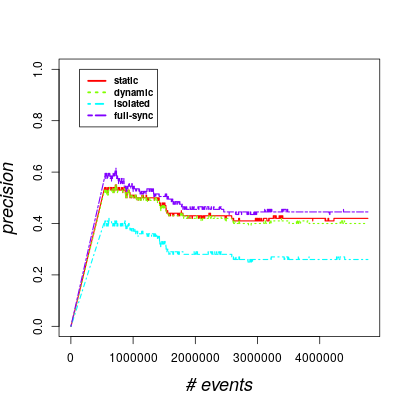
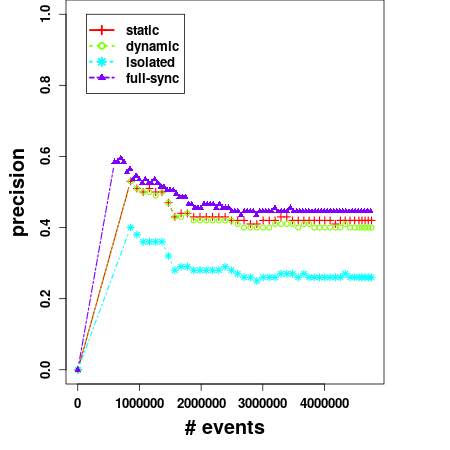
update the result figures

Changed region(s): [[0.0, 0.0, 0.9366, 0.9659], [0.0878, 0.0, 0.1463, 0.0585], [0.1463, 0.0, 0.1756, 0.0293]]

diff --git a/evaluation.tex b/evaluation.tex
@@ -1,18 +1,18 @@
 \section{EMPIRICAL EVALUATION}
 \label{sec:results}
-In this section, we evaluate the performance of our system using a real-world event streams provided by the datAcron project in the context of maritime monitoring. The used event streams describe critical points (i.e., synopses) of moving vessels trajectories, which are derived from raw AIS messages as was  described in \cite{synopses1}. In particular, for our evaluation experiments we used a data set of synopses contains $4,684,444$ critical points of $5055$ vessels sailing in the Atlantic Ocean during the period from 1 October 2015 to 31 March 2016. We used it to generate a simulated stream of event tuples  \textit{(id,timestamp, longitude, latitude, annotation, speed, heading)}, which are processed by the system to attach another field \textit{type} that represents the event value,  where $type$ $\in \Sigma$,  and $ \Sigma= \Sigma_1=$$\{$\textit{VerySlow ,Slow, Moving, Sailing, Stopping} $\}$ , which is based on ranging the speed values. Or $\Sigma=\Sigma_2=$ $\{$  \textit{stopStart,stopEnd, changeInSpeedStart, changeInSpeedEnd, slowMotionStart, slowMotionEnd, gapStart, gapEnd,   changeInHeading} $\}$, which is derived based on the values of the $annotation$ attribute that encodes the extracted trajectory movement events \cite{synopses1}. In our experiments, we monitor a pattern $\mathcal{P}_1=Sailing$ with $m=2$ over $\Sigma_1$ that detects when the vessel under way (sailing). In addition, we test a second pattern  $\mathcal{P}_2=$\textit{changeInHeading; gapStart; gapEnd; changeInHeading} with $m=1$ over $\Sigma_2$.
+In this section, we evaluate our proposed system by analyzing the predictive performance and communication complexity  using a real-world event streams provided by the datAcron project in the context of maritime monitoring. The used event streams describe critical points (i.e., synopses) of moving vessels trajectories, which are derived from raw AIS messages as described in \cite{synopses1}. In particular, for our evaluation experiments we used a data set of synopses contains $4,684,444$ critical points of $5055$ vessels sailing in the Atlantic Ocean during the period from 1 October 2015 to 31 March 2016. We used it to generate a simulated stream of event tuples  i.e., \textit{(id,timestamp, longitude, latitude, annotation, speed, heading)}, which are processed by the system to attach an extra attribute \textit{type} that represents the event value,  where $type$ $\in \Sigma$,  and $ \Sigma= \Sigma_1=$$\{$\textit{VerySlow ,Slow, Moving, Sailing, Stopping} $\}$ , which is based on ranging the speed values. Or $\Sigma=\Sigma_2=$ $\{$  \textit{stopStart,stopEnd, changeInSpeedStart, changeInSpeedEnd, slowMotionStart, slowMotionEnd, gapStart, gapEnd,   changeInHeading} $\}$, which is derived based on the values of the $annotation$ attribute that encodes the extracted trajectory movement events \cite{synopses1}. In our experiments, we monitor a pattern $\mathcal{P}_1=Sailing$ with $\Sigma_1$ that detects when the vessel under way (sailing). Likewise, we test a second pattern  $\mathcal{P}_2=$\textit{changeInHeading; gapStart; gapEnd; changeInHeading} with $\Sigma_2$.
 
 
 \subsubsection*{Experimental setup} We ran our experiments on single-node standalone Flink cluster deployed on a server (Ubuntu 17.04) with Intel(R) Core(TM) i7-7700 CPU @ 3.60GHz X 8 processors and 32GB RAM. We used Apache Flink v1.3.2 and Apache Kafka v0.10.2.1 for our tests.
 
 
-\subsubsection*{Evaluation criteria} Our goal is to evaluate our distributed pattern prediction system, which enables the synchronization of prediction models(i.e., PMC models) on the distributed predictor nodes. Our proposed system can operate with three different flavors of synchronization schemes: \begin{enumerate*}[label=(\roman*)] 
-	\item static based on synchronizing the prediction models periodically every $b$ of input events, 
+\subsubsection*{Evaluation criteria} Our goal is to evaluate our distributed pattern prediction system, which enables the synchronization of prediction models(i.e., PMC models) on the distributed predictor nodes. Our proposed system can operate in three different modes of synchronization protocols/schemes: \begin{enumerate*}[label=(\roman*)] 
+	\item static scheme based on synchronizing the prediction models periodically every $b$ of input events, 
 \item continuous synchronization for each incoming event (hypothetical), 
-\item dynamic synchronization based on making the predictors communicate their prediction models periodically only when the divergence of the models form a reference model exceeds a variance threshold $\Delta$ (recommended).
+\item dynamic synchronization protocol based on making the predictors communicate their local prediction models periodically only when the divergence of the local models form a reference model exceeds a variance threshold $\Delta$ (recommended).
  	   
 \end{enumerate*}
-We compare our proposed system against the isolated prediction approach (i.e., without exchanging information), we compare the predictive performance in terms of :
+We compare our proposed system against the isolated prediction approach, we compare the predictive performance in terms of :
 \begin{enumerate*}[label=(\roman*)]
 	
 \item  $\mathit{precision = \frac{\#\ of\ correct\ predictions}{\#\ of\ total\ predictions}}$ is the percent of the produced predictions are correct (i.e., a full match occurred within the prediction interval).   
@@ -20,44 +20,55 @@ We compare our proposed system against the isolated prediction approach (i.e., w
 \item $\mathit{recall}$ is the fraction of the full matches of the pattern are successfully predicted by the system at least once. 
 
 \end{enumerate*} 
-\par Moreover, we study the communication cost by measuring the $\mathit{cumulative\ communication}$ that captures the number of messages are required to perform the distributed online learning to synchronize the prediction models. In next, we present the experimental results for the for the pattern  $\mathcal{P}_1=Sailing$ with $m=2$, batch size $b=100$, variance threshold $\Delta=2$, and PMC prediction threshold $\theta_{fc}=80\%$.
+\par Moreover, we study the communication cost by measuring the $\mathit{cumulative\ communication}$ that captures the number of messages are required to perform the distributed online learning modes to synchronize the prediction models. In next, we present the experimental results for the patterns  $\mathcal{P}_1=Sailing$ with an order of $m=2$, and   $\mathcal{P}_2=$\textit{changeInHeading; gapStart; gapEnd; changeInHeading} with first order $m=1$. As well as all experiments are performed with batch size equals 100  ($b=100$), a variance threshold of 2 ($\Delta=2$), and $80\%$ as PMC prediction threshold ($\theta_{fc}=80\%$).
 
-\begin{figure}[]
+\begin{figure}[h]
 	
 	\includegraphics[width=.5\textwidth]{figures/precision.png}
 	
-	\caption{Precision scores with respect to the total number of input events over time for the pattern $\mathcal{P}_1$.}
+	\caption{Precision scores with respect to the number of input events over time for $\mathcal{P}_1$.}
 	\label{fig:precsions}
 \end{figure}
 
-\subsubsection*{Experimental results} Figure ~\ref{fig:precsions} depicts the average precision scores of predictions models (one prediction model per vessel) of all approaches, namely, isolated without synchronization, continuous, static, and our recommended approach based on the dynamic synchronization scheme. It can be clearly seen that all methods of distributed learning outperform the isolated prediction models. The most complex method, continuous synchronization, has the higher precision rates, while the static and dynamic synchronization schemes have a similar precision scores. 
-\par In addition, Figure ~\ref{fig:comm} provides the accumulated communication required for the three approaches based on the distributed online learning, while, the isolated approach does not require any communication between the models. As expected, a larger amount of communication is required for the continuous synchronization comparing to the static and dynamic approaches, and it can bee seen that we can reduce the communication overhead by applying the dynamic synchronization protocol (a reduction by a factor of 100) comparing to the static synchronization scheme, even with a small variance threshold $\Delta=2$. Furthermore, the dynamic method is still preserving a similar predictive performance of the static one as shown in Figure ~\ref{fig:precsions}.    
+\subsubsection*{Experimental results} Figure ~\ref{fig:precsions} depicts the average precision scores of predictions models (one prediction model per vessel) of all approaches for the first pattern $\mathcal{P}_1=Sailing$, namely, isolated without synchronization, continuous (full-sync), static, and our recommended approach based on the dynamic synchronization scheme. It can be clearly seen that all methods of distributed learning outperform the isolated prediction models. The most complex method, continuous synchronization, has the higher precision rates, while the static and dynamic synchronization schemes have a close precision scores.
+
+In addition, we have found that in order to have an improvement in terms of precision for the second pattern ($\mathcal{P}_2$), a slight modification is needed that to only enable the synchronization of the prediction models associated with vessels that belong to the same type. Currently, this change is technically performed by an extra filter step that passes only one type of vessels at time, while multiple runs of the system are required for all vessel types. Fore example, Figure ~\ref{fig:precsions_p2} shows the precision scores for vessels of type \textit{PLEASURE CRAFT}. An interesting observation is that the dynamic synchronization approach has the higher precision scores.  
+
+ \begin{figure}[h]
+ 	
+ 	\includegraphics[width=.5\textwidth]{figures/precision_p2.png}
+ 	
+ 	\caption{Precision scores of $\mathcal{P}_2$  for \textit{PLEASURE CRAFT} vessels.}
+ 	\label{fig:precsions_p2}
+ \end{figure}
+ 
+ 
+\par On the other hand, Figure ~\ref{fig:comm} provides the amount of the accumulated communication that is required by the three modes of the distributed online learning, while, the isolated approach does not require any communication between the predictors. These results are shown  $\mathcal{P}_1$, while we have omitted the measurements of  $\mathcal{P}_2$ since it has shown a similar behavior.  As expected, a larger amount of communication is required for the continuous synchronization comparing to the static and dynamic approaches, and it can bee seen that we can reduce the communication overhead by applying the dynamic synchronization protocol (a reduction by a factor of 100) comparing to the static synchronization scheme, even with a small variance threshold $\Delta=2$. Furthermore,  the dynamic  protocol is still preserving a close predictive performance to the static one (see Figure ~\ref{fig:precsions}).    
 
 
-
-
-
-\begin{figure}[]
+\begin{center}
 	
-	\includegraphics[width=.5\textwidth]{figures/communication.png}
-	
-	\caption{Commutative communication with respect to the total number of input events over time for the pattern $\mathcal{P}_1$.}
-	\label{fig:comm}
-\end{figure}
+	\begin{figure}[h]
+		
+		\includegraphics[width=.5\textwidth]{figures/communication.png}
+		
+		\caption{Commutative communication with respect to the number of input events over time for $\mathcal{P}_1$.}
+		\label{fig:comm}
+	\end{figure}
+\end{center}
 
+\par In Table ~\ref{tab:recall}, we present the mean of the recall scores for the both patterns in the all approaches It can be seen that the different approaches have a close recall scores, while the most frequent pattern ($\mathcal{P}_1$) has a lower recall than $\mathcal{P}_2$.
 
-\par In Table ~\ref{tab:recall}, we present the statistics of recall results for the different approaches. It can be seen 
-
-\begin{table}[]
-	\caption{Recall results.}
+\begin{table}[h]
+	\caption{Average recall for  $\mathcal{P}_1$ and $\mathcal{P}_2$.}
 	\label{tab:recall}
 	\begin{tabular}{lcc}
 		\toprule
 		Approach &Mean recall for $\mathcal{P}_1$ &Mean recall for $\mathcal{P}_2$\\
 		\midrule
-		isolated & 0.1707  & 0.860 \\
-		static & 0.1754  &  0.970 \\
-		dynamic & 0.174  & 0.962 \\
+		isolated & 0.1707  &0.947 \\
+		static & 0.1754  &  0.960 \\
+		dynamic & 0.174  & 0.0.964 \\
 		full-sync & 0.1817  & 0.972 \\
 		\bottomrule
 	\end{tabular}
